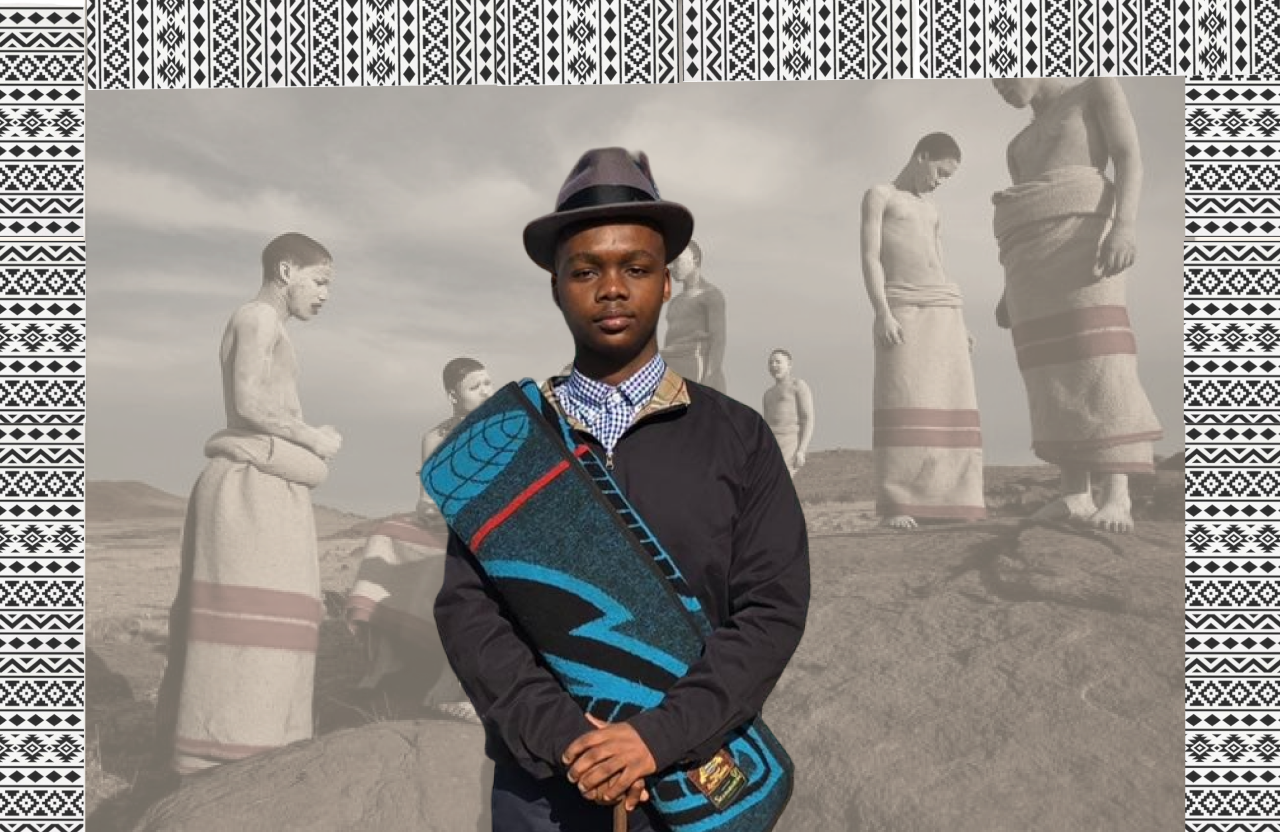
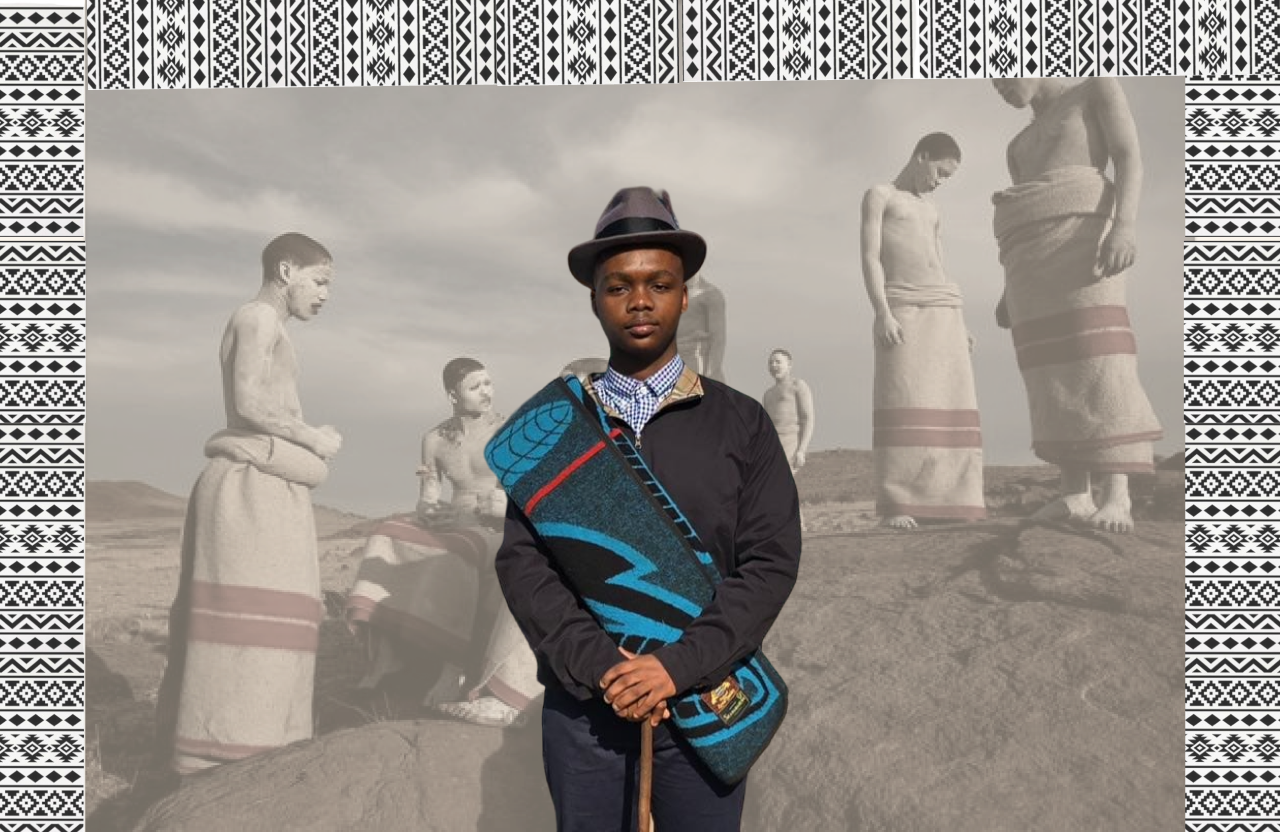
Make penultimate changes before sending prototype

Changed region(s): [[0.3125, 0.1562, 0.6562, 1.0], [0.5938, 0.5, 0.625, 0.5625]]

diff --git a/index.html b/index.html
@@ -45,7 +45,7 @@
                 <a href="#gallery" class="nav-item nav-link">Gallery</a>
             </div>
             <a href="index.html" class="navbar-brand mx-5 d-none d-lg-block">
-                <h1 class="font-secondary text-white mb-n2">Umgidi<span class="text-primary"> Ka</span> Lathitha</h1>
+                <h1 class="text-primary">Umgidi<span class="font-secondary text-white mb-n2"> Ka</span> Lathitha</h1>
             </a>
             <div class="navbar-nav mr-auto py-0">
                 <a href="#event" class="nav-item nav-link">Event</a>
@@ -62,12 +62,12 @@
         <div id="header-carousel" class="carousel slide carousel-fade" data-ride="carousel">
             <div class="carousel-inner">
                 <div class="carousel-item position-relative active" style="height: 100vh; min-height: 400px;">
-                    <img class="position-absolute w-100 h-100" src="img/carousel-1.png" style="object-fit: cover;">
+                    <img class="position-absolute w-100 h-100" src="img/carousel-11.png" style="object-fit: cover;">
                     <div class="carousel-caption d-flex flex-column align-items-center justify-content-center">
                         <div class="p-3" style="max-width: 900px;">
                             <h1 class="display-1 font-secondary text-white mt-n3 mb-md-4">Umgidi Ka</h1>
                             <div class="d-inline-block border-top border-bottom border-light py-3 px-4">
-                                <h3 class="text-uppercase font-weight-normal text-white m-0" style="letter-spacing: 2px;">Lathitha Xaba</h3>
+                                <h3 class="text-uppercase font-weight-normal text-white m-0" style="letter-spacing: 2px;">Lathitha Mzantsi</h3>
                             </div>
                         </div>
                         <a class="btn-slice" href="#rsvp">
@@ -77,12 +77,12 @@
                     </div>
                 </div>
                 <div class="carousel-item position-relative" style="height: 100vh; min-height: 400px;">
-                    <img class="position-absolute w-100 h-100" src="img/carousel-2.jpg" style="object-fit: cover;">
+                    <img class="position-absolute w-100 h-100" src="img/carousel-11.png" style="object-fit: cover;">
                     <div class="carousel-caption d-flex flex-column align-items-center justify-content-center">
                         <div class="p-3" style="max-width: 900px;">
                             <h1 class="display-1 font-secondary text-white mt-n3 mb-md-4">Umgidi Ka</h1>
                             <div class="d-inline-block border-top border-bottom border-light py-3 px-4">
-                                <h3 class="text-uppercase font-weight-normal text-white m-0" style="letter-spacing: 2px;">Lathitha Xaba</h3>
+                                <h3 class="text-uppercase font-weight-normal text-white m-0" style="letter-spacing: 2px;">Lathitha Mzantsi</h3>
                             </div>
                         </div>
                         <a class="btn-slice" href="#rsvp">
@@ -118,11 +118,15 @@
             <div class="row m-0 mb-4 mb-md-0 pb-2 pb-md-0">
                 <div class="col-md-6 p-0 text-center text-md-right">
                     <div class="h-100 d-flex flex-column justify-content-center bg-secondary p-5">
-                        <p>Lorem elitr magna stet rebum dolores sed. Est stet labore est lorem lorem at amet sea, eos tempor rebum, 
-                            labore amet ipsum sea lorem, stet rebum eirmod amet. Kasd clita kasd stet amet est dolor elitr.</p>
+                        <p>My name is Lathitha Olothando Mzantsi, I was born on the 15th of August 2005 to my Mom Sibongile and Dad Thembekile. 
+                            I was the last of my parents' four children. I was a happy baby growing up with my brothers and sister.
+                            I started school at Bouncing Bunny's Daycare and then proceeded to Central Primary School, where I did grades R-7.
+                        </p>
                         <br>
-                        <p>Lorem elitr magna stet rebum dolores sed. Est stet labore est lorem lorem at amet sea, eos tempor rebum, 
-                            labore amet ipsum sea lorem, stet rebum eirmod amet. Kasd clita kasd stet amet est dolor elitr.</p>
+                        <p>I then went on to Hudson Park High School, where I discovered a passion for power lifting and biking. 
+                            At Hudson, I made great friends and tried my best to be a good learner. 
+                            I am generally liked by my teachers and peers. 
+                            After high school, I plan to pursue my tertiary studies and pursue a prosperous career in real estate and property development.</p>
                     </div>
                 </div>
                 <div class="col-md-6 p-0" style="min-height: 400px;">
@@ -135,8 +139,18 @@
                 </div>
                 <div class="col-md-6 p-0 text-center text-md-left">
                     <div class="h-100 d-flex flex-column justify-content-center bg-secondary p-5">
-                        <p>Lorem elitr magna stet rebum dolores sed. Est stet labore est lorem lorem at amet sea, eos tempor rebum, 
-                            labore amet ipsum sea lorem, stet rebum eirmod amet. Kasd clita kasd stet amet est dolor elitr.</p>
+                        <p>For now, I am working hard to become a man with values and integrity. 
+                            I seek to leave a lasting and positive impact on those around me. 
+                            My daily goal is to cultivate the courage necessary to pursue my dreams. 
+                            I want to be a man of substance. I want to continuously seek self-improvement. 
+                            I want to be a man who never gives up. A man who is stubbornly resilient. 
+                            I want to be good to those around me, to love my family, and to respect and honor my parents. 
+                            Most importantly, I want to be a man who worships and fears God.
+                        </p>
+                        <br>
+                        <p>I will work hard all my life to be the best man I can be.<br><br>
+                            'I can do all things through Christ who gives me strength... ' - Philippians 4:13
+                        </p>
                         <div class="position-relative">
                             <a class="btn btn-outline-primary btn-square mr-1" href="#"><i class="fab fa-instagram"></i></a>
                             <a class="btn btn-outline-primary btn-square mr-1" href="#"><i class="fab fa-facebook-f"></i></a>
